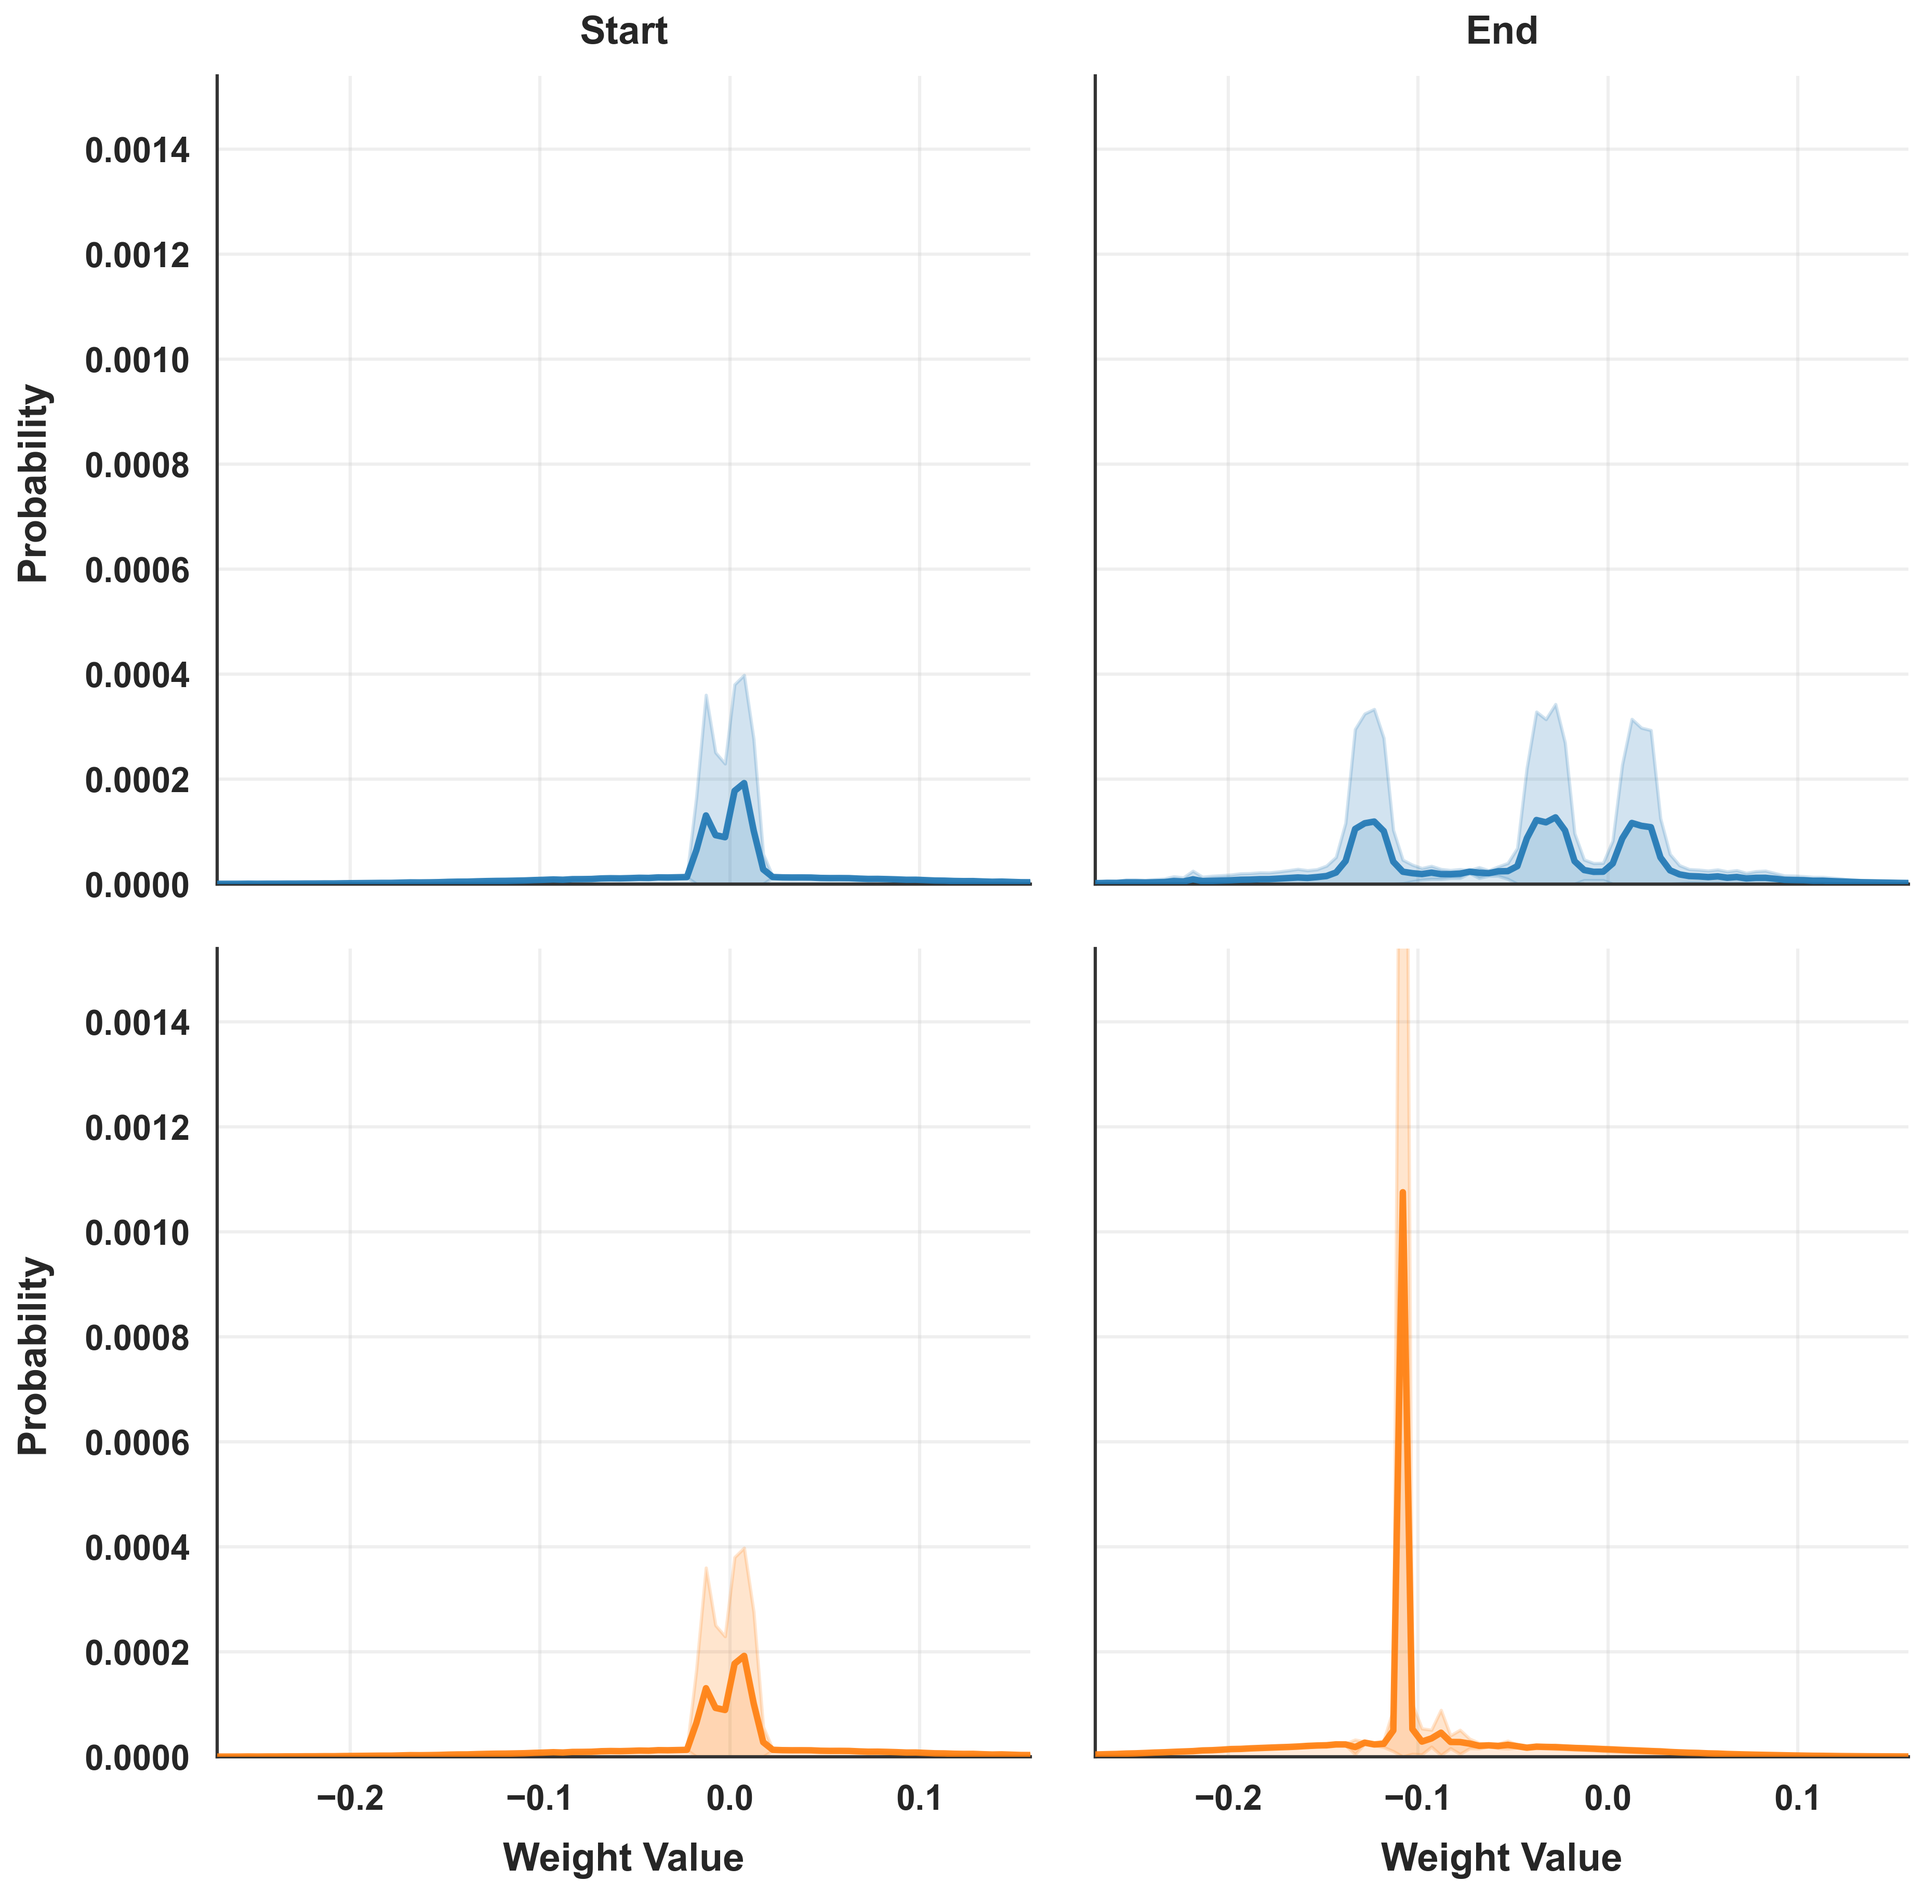
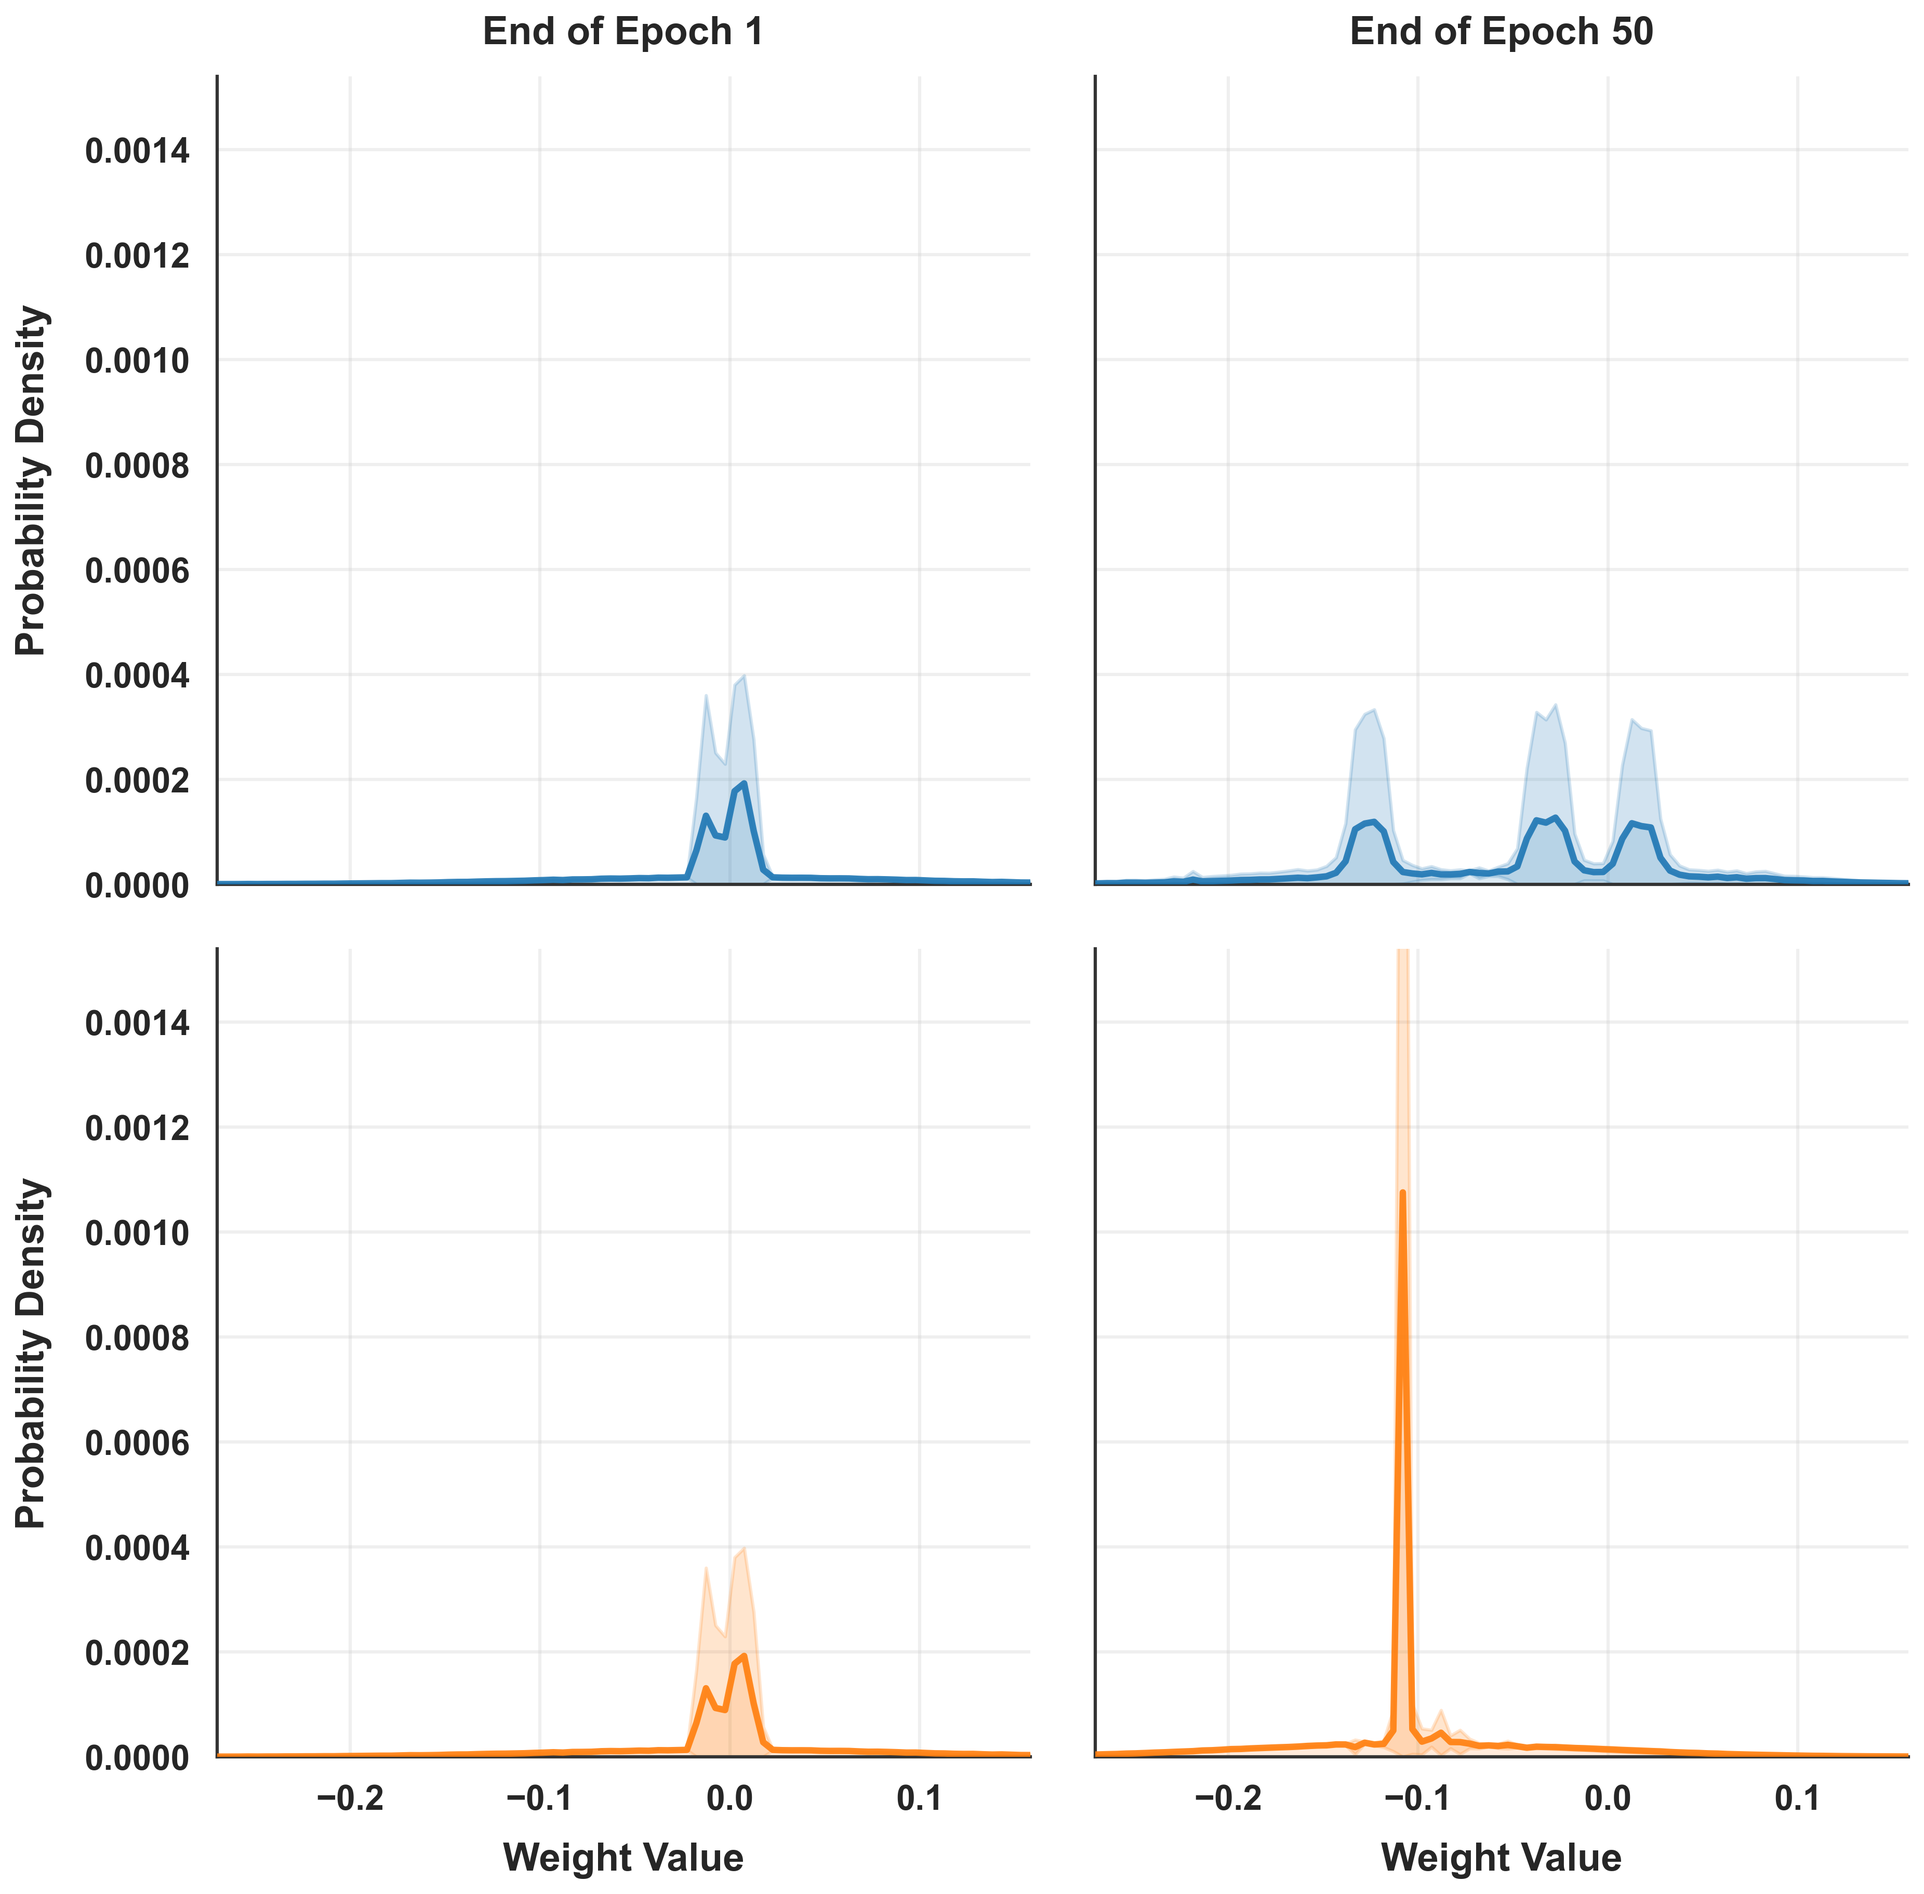
? - plots 3.1

diff --git a/Research/Complexity_Training_Test/plot.py b/Research/Complexity_Training_Test/plot.py
@@ -1159,10 +1159,10 @@ def plot_distributions_faceted(sources):
     # axes[1, 1] = Optimized End
     
     configs = [
-        (0, 0, 'Control', control_epochs[0], source_dict['Control'], 'Start'),
-        (0, 1, 'Control', control_epochs[-1], source_dict['Control'], 'End'),
-        (1, 0, 'Optimized', optimized_epochs[0], source_dict['Optimized'], 'Start'),
-        (1, 1, 'Optimized', optimized_epochs[-1], source_dict['Optimized'], 'End'),
+        (0, 0, 'Control', control_epochs[0], source_dict['Control'], 'End of Epoch 1'),
+        (0, 1, 'Control', control_epochs[-1], source_dict['Control'], 'End of Epoch 50'),
+        (1, 0, 'Optimized', optimized_epochs[0], source_dict['Optimized'], 'End of Epoch 1'),
+        (1, 1, 'Optimized', optimized_epochs[-1], source_dict['Optimized'], 'End of Epoch 50'),
     ]
     
     # Store data for all subplots to determine common y-axis limits
@@ -1271,7 +1271,7 @@ def plot_distributions_faceted(sources):
         
         # Labels for edge subplots only
         if col == 0:  # Left column
-            ax.set_ylabel('Probability', fontsize=18, fontweight='bold', labelpad=15)
+            ax.set_ylabel('Probability Density', fontsize=18, fontweight='bold', labelpad=15)
         if row == 1:  # Bottom row
             ax.set_xlabel('Weight Value', fontsize=18, fontweight='bold', labelpad=12)
             
